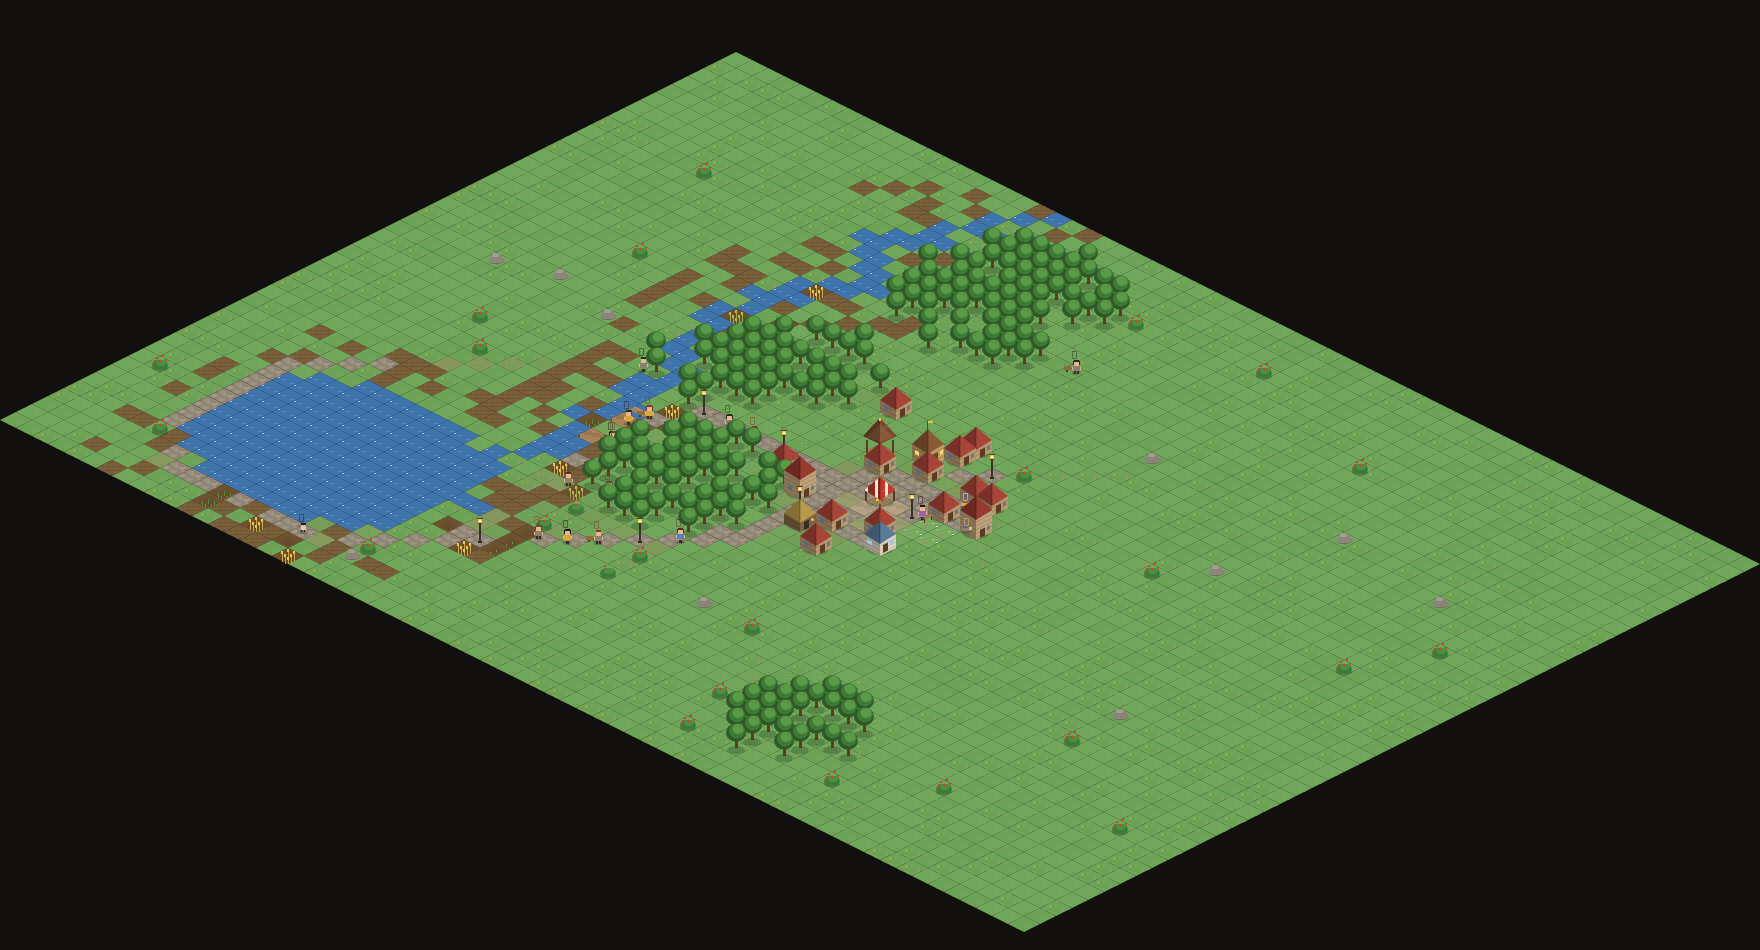
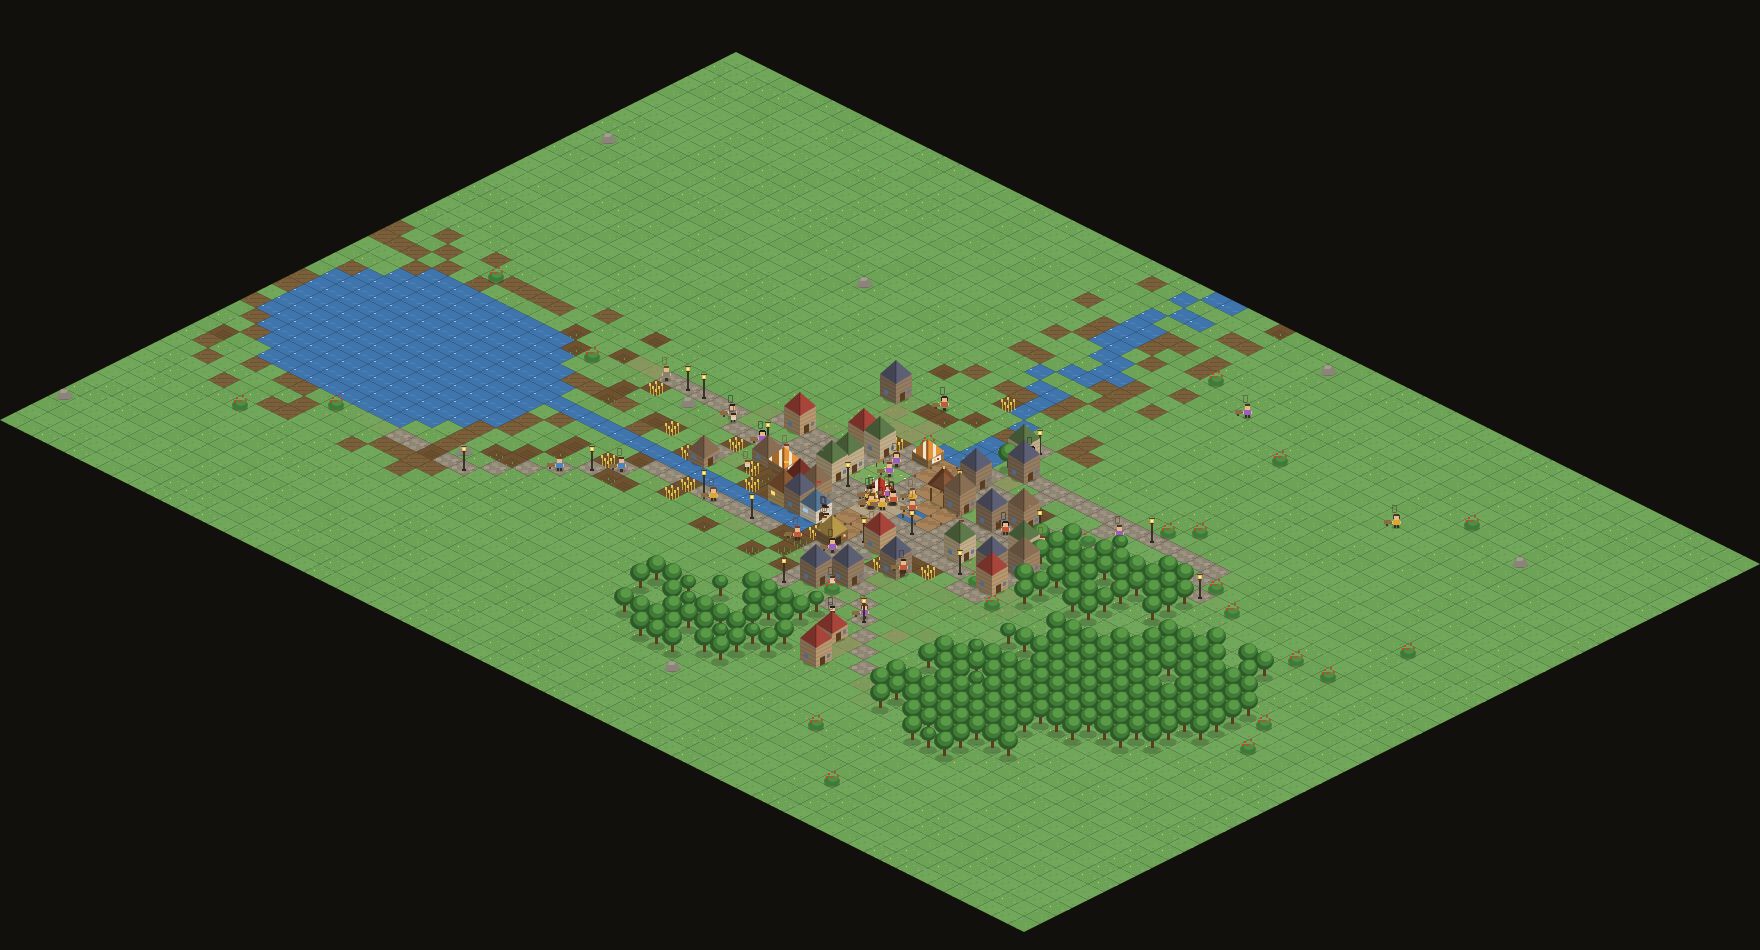
Siklus perumahan organik: pisah rumah, tempati rumah kosong, rumah lapuk roboh + 4 variasi gaya rumah

diff --git a/src/actions.js b/src/actions.js
@@ -15,6 +15,22 @@ const HUNGER_URGENCY = (npc) => {
   return u;
 };
 // pengali untuk pekerjaan non-pangan: kalau lapar & tak punya stok, tunda dulu
+// Seberapa kuat keinginan punya rumah SENDIRI (0 = tidak ingin).
+// Tunawisma: sangat kuat. Nebeng rumah keluarga: tumbuh organik —
+// makin kuat kalau sudah menikah atau rumahnya sesak.
+const homeDrive = (npc, sim) => {
+  if (!npc.isAdult) return 0;
+  if (!npc.home) return 3.5;
+  const t = sim.world.at(npc.home.x, npc.home.y);
+  if (!t || t.type !== T.HOUSE) return 3;                              // rumahnya lenyap
+  if (t.owner === npc.id || t.owner === npc.partner?.id) return 0;     // sudah milik sendiri
+  const occupants = sim.npcs.filter(o =>
+    o.alive && o.home && o.home.x === npc.home.x && o.home.y === npc.home.y).length;
+  const sesak = Math.max(0, occupants - 2) * 0.9;
+  const nikah = npc.partner?.alive ? 2.4 : 0;
+  return Math.max(0, sesak + nikah + npc.traits.rajin * 1.4 - 1.5);
+};
+
 const WELL_FED = (npc) => (npc.needs.hunger < 30 && npc.inv.food <= 1) ? 0.15
   : (npc.needs.hunger < 50 && npc.inv.food <= 0) ? 0.45 : 1;
 
@@ -235,7 +251,7 @@ export const ACTIONS = {
       const civicPending =
         (!sim.hall && sim.know.konstruksi >= 55 && sim.npcs.length >= 16) ||
         (!sim.school && sim.know.konstruksi >= 45 && sim.npcs.length >= 14 && sim.kidsCount() >= 3);
-      if (!npc.home && npc.inv.wood < 14) need = 2.8;                         // butuh rumah!
+      if (npc.inv.wood < 14 && homeDrive(npc, sim) > 0) need = 2.8;           // butuh rumah sendiri!
       else if (civicPending && npc.traits.rajin > 0.45 && npc.inv.wood < 14) need = 0.9; // gotong royong proyek desa
       else if (sim.techs.has('gerobak') && !npc.cart && npc.inv.wood < 8) need = 0.9;   // nabung buat gerobak
       else if (sim.techs.has('rumah_besar') && npc.home &&
@@ -278,9 +294,12 @@ export const ACTIONS = {
   // ---------- MEMBANGUN RUMAH ----------
   bangun: {
     emoji: '🏠',
-    score(npc) {
-      if (!npc.isAdult || npc.home || npc.inv.wood < 14) return 0;
-      return 6 * WELL_FED(npc);
+    score(npc, sim) {
+      if (!npc.isAdult || npc.inv.wood < 14) return 0;
+      const drive = homeDrive(npc, sim);
+      if (drive <= 0) return 0;
+      if (!npc.home) return 6 * WELL_FED(npc);
+      return drive * 1.7 * WELL_FED(npc) * npc.qVal('bangun');
     },
     start(npc, sim) {
       // cari lahan dekat pasar / dekat rumah orang tua
@@ -300,15 +319,71 @@ export const ACTIONS = {
       if (++npc.action.t < 130) { npc.thought = 'memaku dan menyusun kayu...'; return null; }
       const t = sim.world.at(npc.action.tx, npc.action.ty);
       if (!t || t.type !== T.GRASS) return { done: true, reward: 0.3 };
+      const pisah = !!npc.home; // sebelumnya nebeng rumah keluarga
       t.type = T.HOUSE; t.owner = npc.id;
       npc.inv.wood -= 14;
       npc.home = { x: npc.action.tx, y: npc.action.ty };
       sim.know.konstruksi += 4;
       sim.know.kayu += 1.5;
-      if (npc.partner && !npc.partner.home) npc.partner.home = npc.home;
-      sim.log(`🏠 ${npc.name} selesai membangun rumah`, 'econ');
-      npc.logLife(sim.world.day, 'membangun rumah sendiri');
+      // pasangan ikut pindah (kecuali dia pemilik rumahnya sendiri)
+      if (npc.partner?.alive) {
+        const pt = npc.partner.home && sim.world.at(npc.partner.home.x, npc.partner.home.y);
+        if (!pt || pt.type !== T.HOUSE || pt.owner !== npc.partner.id) npc.partner.home = npc.home;
+      }
+      // anak kecil ikut orang tuanya
+      for (const c of npc.children) if (c.alive && !c.isAdult) c.home = npc.home;
+      sim.log(pisah
+        ? `🏠 ${npc.name} pisah dari rumah keluarga — membangun rumah sendiri`
+        : `🏠 ${npc.name} selesai membangun rumah`, 'econ');
+      npc.logLife(sim.world.day, pisah ? 'pisah rumah, membangun rumah sendiri' : 'membangun rumah sendiri');
       return { done: true, reward: 2.2 };
+    },
+  },
+
+  // ---------- MENEMPATI RUMAH KOSONG ----------
+  tempati: {
+    emoji: '🔑',
+    score(npc, sim) {
+      if (!npc.isAdult || npc.inv.wood < 4) return 0;
+      if (!sim.emptyHouses || !sim.emptyHouses.length) return 0;
+      const drive = homeDrive(npc, sim);
+      if (drive <= 0) return 0;
+      // lebih murah & cepat dari membangun baru — pilihan menarik
+      return (npc.home ? drive * 1.9 : 7) * WELL_FED(npc) * npc.qVal('tempati');
+    },
+    start(npc, sim) {
+      let best = null, bd = 1e9;
+      for (const h of sim.emptyHouses) {
+        const d = dist(npc.x, npc.y, h.x, h.y);
+        if (d < bd) { bd = d; best = h; }
+      }
+      if (!best) return false;
+      const t = sim.world.at(best.x, best.y);
+      if (!t || t.type !== T.HOUSE) return false;
+      npc.action.tx = best.x; npc.action.ty = best.y; npc.action.t = 0;
+      npc.thought = 'ada rumah kosong — mau kuperbaiki dan kutempati';
+    },
+    step(npc, sim) {
+      if (!npc.action.arrived) {
+        if (npc.moveToward(npc.action.tx, npc.action.ty, sim.world)) npc.action.arrived = true;
+        return null;
+      }
+      if (++npc.action.t < 60) { npc.thought = 'membersihkan & memperbaiki rumah kosong...'; return null; }
+      const t = sim.world.at(npc.action.tx, npc.action.ty);
+      if (!t || t.type !== T.HOUSE) return { done: true, reward: 0.3 };
+      // keduluan ditempati orang lain?
+      const taken = sim.npcs.some(o =>
+        o.alive && o.home && o.home.x === npc.action.tx && o.home.y === npc.action.ty);
+      if (taken) return { done: true, reward: 0.4 };
+      t.owner = npc.id; t.emptyDays = 0;
+      npc.inv.wood -= 4;
+      npc.home = { x: npc.action.tx, y: npc.action.ty };
+      if (npc.partner?.alive && !npc.partner.ownsHome(sim.world)) npc.partner.home = npc.home;
+      for (const c of npc.children) if (c.alive && !c.isAdult) c.home = npc.home;
+      sim.emptyHouses = sim.emptyHouses.filter(h => h.x !== npc.action.tx || h.y !== npc.action.ty);
+      sim.log(`🔑 ${npc.name} menempati rumah kosong dan memperbaikinya`, 'econ');
+      npc.logLife(sim.world.day, 'menempati rumah kosong');
+      return { done: true, reward: 2.0 };
     },
   },
 

diff --git a/src/sprites.js b/src/sprites.js
@@ -277,19 +277,29 @@ export function buildSprites() {
     // jendela dinding kiri
     poly(g, [[4, rH + 13], [8, rH + 15], [8, rH + 19], [4, rH + 17]], lit ? shade('#ffd871', 0.8) : '#4a6a8a');
   };
-  S.house = building({ wallH: 12, roofPeak: 9, wall: '#c2a176', roof: '#a8453a', decorate: houseDecor(false) });
-  S.houseLit = building({ wallH: 12, roofPeak: 9, wall: '#c2a176', roof: '#a8453a', decorate: houseDecor(true) });
+  // Variasi rumah — tiap rumah beda gaya (dipilih dari hash posisi tile):
+  // terakota klasik, atap lumut, sirap kayu, dan batu tulis kelabu
+  const HOUSE_PAL = [
+    { wall: '#c2a176', roof: '#a8453a', wallH: 12, peak: 9 },
+    { wall: '#cdb892', roof: '#5f7a4a', wallH: 13, peak: 8 },
+    { wall: '#a98a68', roof: '#8a6f54', wallH: 11, peak: 10 },
+    { wall: '#9c8468', roof: '#5d5f74', wallH: 12, peak: 9 },
+  ];
+  S.house = HOUSE_PAL.map(p => building({
+    wallH: p.wallH, roofPeak: p.peak, wall: p.wall, roof: p.roof, decorate: houseDecor(false) }));
+  S.houseLit = HOUSE_PAL.map(p => building({
+    wallH: p.wallH, roofPeak: p.peak, wall: p.wall, roof: p.roof, decorate: houseDecor(true) }));
 
-  S.house2 = building({ wallH: 22, roofPeak: 10, wall: '#c9ab80', roof: '#97392f', decorate: (g, rH, wH) => {
-    houseDecor(false)(g, rH + 10, wH);
-    poly(g, [[27, rH + 7], [30, rH + 5.5], [30, rH + 9.5], [27, rH + 11]], '#4a6a8a');
-    poly(g, [[4, rH + 6], [8, rH + 8], [8, rH + 12], [4, rH + 10]], '#4a6a8a');
-  } });
-  S.house2Lit = building({ wallH: 22, roofPeak: 10, wall: '#c9ab80', roof: '#97392f', decorate: (g, rH, wH) => {
-    houseDecor(true)(g, rH + 10, wH);
-    poly(g, [[27, rH + 7], [30, rH + 5.5], [30, rH + 9.5], [27, rH + 11]], '#ffd871');
-    poly(g, [[4, rH + 6], [8, rH + 8], [8, rH + 12], [4, rH + 10]], '#ffb84a');
-  } });
+  const house2Deco = (lit) => (g, rH, wH) => {
+    houseDecor(lit)(g, rH + 10, wH);
+    const win = lit ? '#ffb84a' : '#4a6a8a';
+    poly(g, [[27, rH + 7], [30, rH + 5.5], [30, rH + 9.5], [27, rH + 11]], win);
+    poly(g, [[4, rH + 6], [8, rH + 8], [8, rH + 12], [4, rH + 10]], win);
+  };
+  S.house2 = HOUSE_PAL.map(p => building({
+    wallH: 22, roofPeak: 10, wall: p.wall, roof: p.roof, decorate: house2Deco(false) }));
+  S.house2Lit = HOUSE_PAL.map(p => building({
+    wallH: 22, roofPeak: 10, wall: p.wall, roof: p.roof, decorate: house2Deco(true) }));
 
   S.granary = building({ wallH: 18, roofPeak: 12, wall: '#b5916a', roof: '#7c332a', decorate: (g, rH) => {
     // pintu gandang besar

diff --git a/src/render.js b/src/render.js
@@ -105,8 +105,15 @@ export function render(ctx, sim, selected) {
         break;
       case T.HOUSE: {
         const big = t.level === 2;
-        const spr = w.isNight ? (big ? S.house2Lit : S.houseLit) : (big ? S.house2 : S.house);
-        put(x, y, () => { shadowE(ctx, sx + 16, sy + 10, 13, 5); ctx.drawImage(spr, sx, sy - (spr.height - IH)); drawSmoke(ctx, sx + 16, sy - (spr.height - IH), tick, x); });
+        const v = Math.floor(hash(x, y) * 4);
+        const empty = (t.emptyDays || 0) >= 2; // terbengkalai: gelap, tanpa asap
+        const lit = w.isNight && !empty;
+        const spr = (big ? (lit ? S.house2Lit : S.house2) : (lit ? S.houseLit : S.house))[v];
+        put(x, y, () => {
+          shadowE(ctx, sx + 16, sy + 10, 13, 5);
+          ctx.drawImage(spr, sx, sy - (spr.height - IH));
+          if (!empty) drawSmoke(ctx, sx + 16, sy - (spr.height - IH), tick, x);
+        });
         break;
       }
       case T.MARKET:
@@ -176,6 +183,7 @@ export function render(ctx, sim, selected) {
     for (let y = 0; y < H; y++) for (let x = 0; x < W; x++) {
       const t = w.tiles[y * W + x];
       const isLamp = t.type === T.ROAD && t.lamp;
+      if (t.type === T.HOUSE && (t.emptyDays || 0) >= 2) continue; // rumah kosong gelap
       const glow = t.type === T.HOUSE || t.type === T.MARKET || t.type === T.GRANARY ||
         t.type === T.WARUNG || t.type === T.KEDAI || t.type === T.SCHOOL ||
         t.type === T.HALL || t.type === T.PENDOPO || isLamp;

diff --git a/src/sim.js b/src/sim.js
@@ -560,6 +560,28 @@ export class Sim {
       if (this.world.isWinter) this.log('❄ Paceklik tiba. Semoga lumbung desa cukup...', 'danger');
     }
 
+    // ---- Rumah kosong: bisa ditempati lagi, atau lapuk & roboh ----
+    // (pemilik wafat tanpa penghuni → rumah terbengkalai secara organik)
+    const occupied = new Set();
+    for (const n of this.npcs) {
+      if (n.alive && n.home) occupied.add(Math.round(n.home.x) + ',' + Math.round(n.home.y));
+    }
+    this.emptyHouses = [];
+    for (let i = 0; i < this.world.tiles.length; i++) {
+      const t = this.world.tiles[i];
+      if (t.type !== T.HOUSE) continue;
+      const x = i % W, y = (i / W) | 0;
+      if (occupied.has(x + ',' + y)) { t.emptyDays = 0; continue; }
+      t.emptyDays = (t.emptyDays || 0) + 1;
+      if (t.emptyDays > 12) {
+        t.type = T.GRASS;
+        delete t.owner; delete t.level; delete t.emptyDays;
+        this.log('🏚 Sebuah rumah kosong lapuk dan roboh dimakan waktu', 'info');
+      } else if (t.emptyDays >= 2) {
+        this.emptyHouses.push({ x, y }); // kandidat untuk ditempati warga
+      }
+    }
+
     for (const npc of [...this.npcs]) {
       if (!npc.alive) continue;
       npc.age++;

diff --git a/src/economy.js b/src/economy.js
@@ -34,8 +34,9 @@ export class Market {
       traded = true;
     }
 
-    // Jual surplus kayu
-    const sellW = npc.home ? Math.max(0, npc.inv.wood - 4) : 0;
+    // Jual surplus kayu — hanya yang sudah punya rumah SENDIRI;
+    // yang masih nebeng menyimpan kayunya untuk membangun
+    const sellW = (sim && npc.ownsHome(sim.world)) ? Math.max(0, npc.inv.wood - 4) : 0;
     if (sellW > 0) {
       const gain = Math.round(sellW * p.wood * (0.9 + npc.skills.dagang * 0.2) * 10) / 10;
       npc.inv.wood -= sellW;
@@ -68,7 +69,7 @@ export class Market {
     }
 
     // Beli kayu untuk calon rumah (kalau mahal nebang sendiri, ini alternatif)
-    if (!npc.home && npc.inv.wood < 14 && npc.inv.coins > p.wood * 6 && this.stock.wood > 0) {
+    if (sim && !npc.ownsHome(sim.world) && npc.inv.wood < 14 && npc.inv.coins > p.wood * 6 && this.stock.wood > 0) {
       const want = Math.min(5, Math.floor((npc.inv.coins * 0.5) / p.wood), this.stock.wood);
       if (want > 0) {
         const cost = Math.round(want * p.wood * 10) / 10;

diff --git a/src/ui.js b/src/ui.js
@@ -7,7 +7,7 @@ const TRAIT_LABEL = { rajin: 'Rajin', supel: 'Supel', berani: 'Berani', penasara
 const SKILL_LABEL = { tani: 'Bertani', ramu: 'Meramu', kayu: 'Menebang', pancing: 'Memancing', dagang: 'Dagang', pesona: 'Pesona' };
 const ACTION_LABEL = {
   makan: 'Makan', tidur: 'Tidur', ramu: 'Meramu beri', pancing: 'Memancing', tani: 'Bertani',
-  kayu: 'Menebang kayu', bangun: 'Membangun rumah', sosial: 'Bersosialisasi', dagang: 'Berdagang',
+  kayu: 'Menebang kayu', bangun: 'Membangun rumah', tempati: 'Menempati rumah kosong', sosial: 'Bersosialisasi', dagang: 'Berdagang',
   cinta: 'Mendekati pujaan', jelajah: 'Menjelajah', santai: 'Bersantai', kabur: 'KABUR!',
   bangunJalan: 'Memasang jalan batu', bangunJembatan: 'Membangun jembatan', buatGerobak: 'Merakit gerobak',
   bangunLumbung: 'Membangun lumbung', upgradeRumah: 'Memperbesar rumah', pasangLampu: 'Memasang lampu jalan',

diff --git a/src/npc.js b/src/npc.js
@@ -82,6 +82,13 @@ export class NPC {
   get isAdult() { return this.age >= 14; }
   get isElder() { return this.age >= 60; }
 
+  // Punya rumah SENDIRI (bukan nebeng rumah keluarga/warisan)?
+  ownsHome(world) {
+    if (!this.home) return false;
+    const t = world.at(this.home.x, this.home.y);
+    return !!t && t.type === T.HOUSE && (t.owner === this.id || t.owner === this.partner?.id);
+  }
+
   get profession() {
     if (!this.isAdult) return 'anak-anak';
     let best = 'warga', bv = 0.42;
